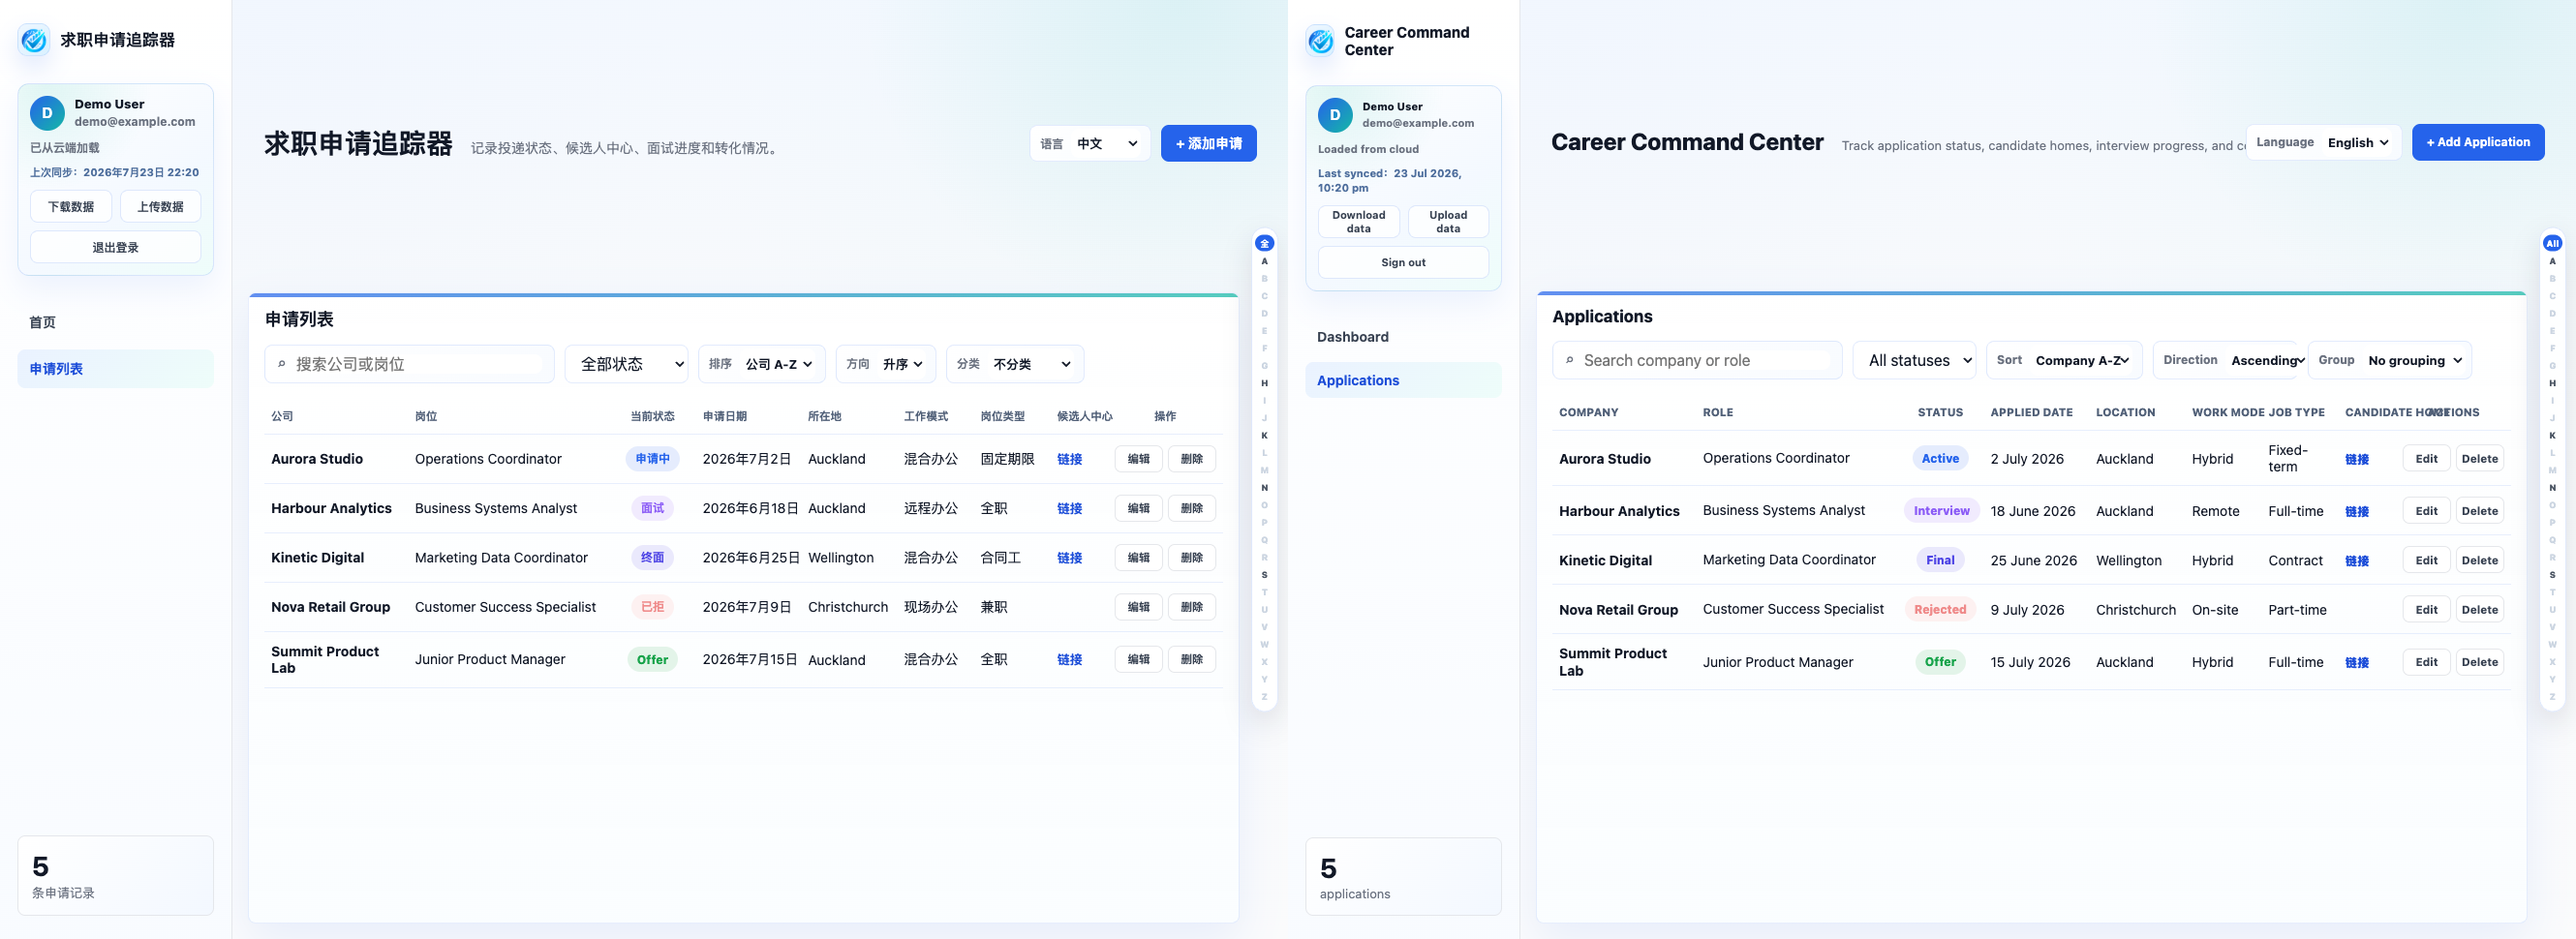
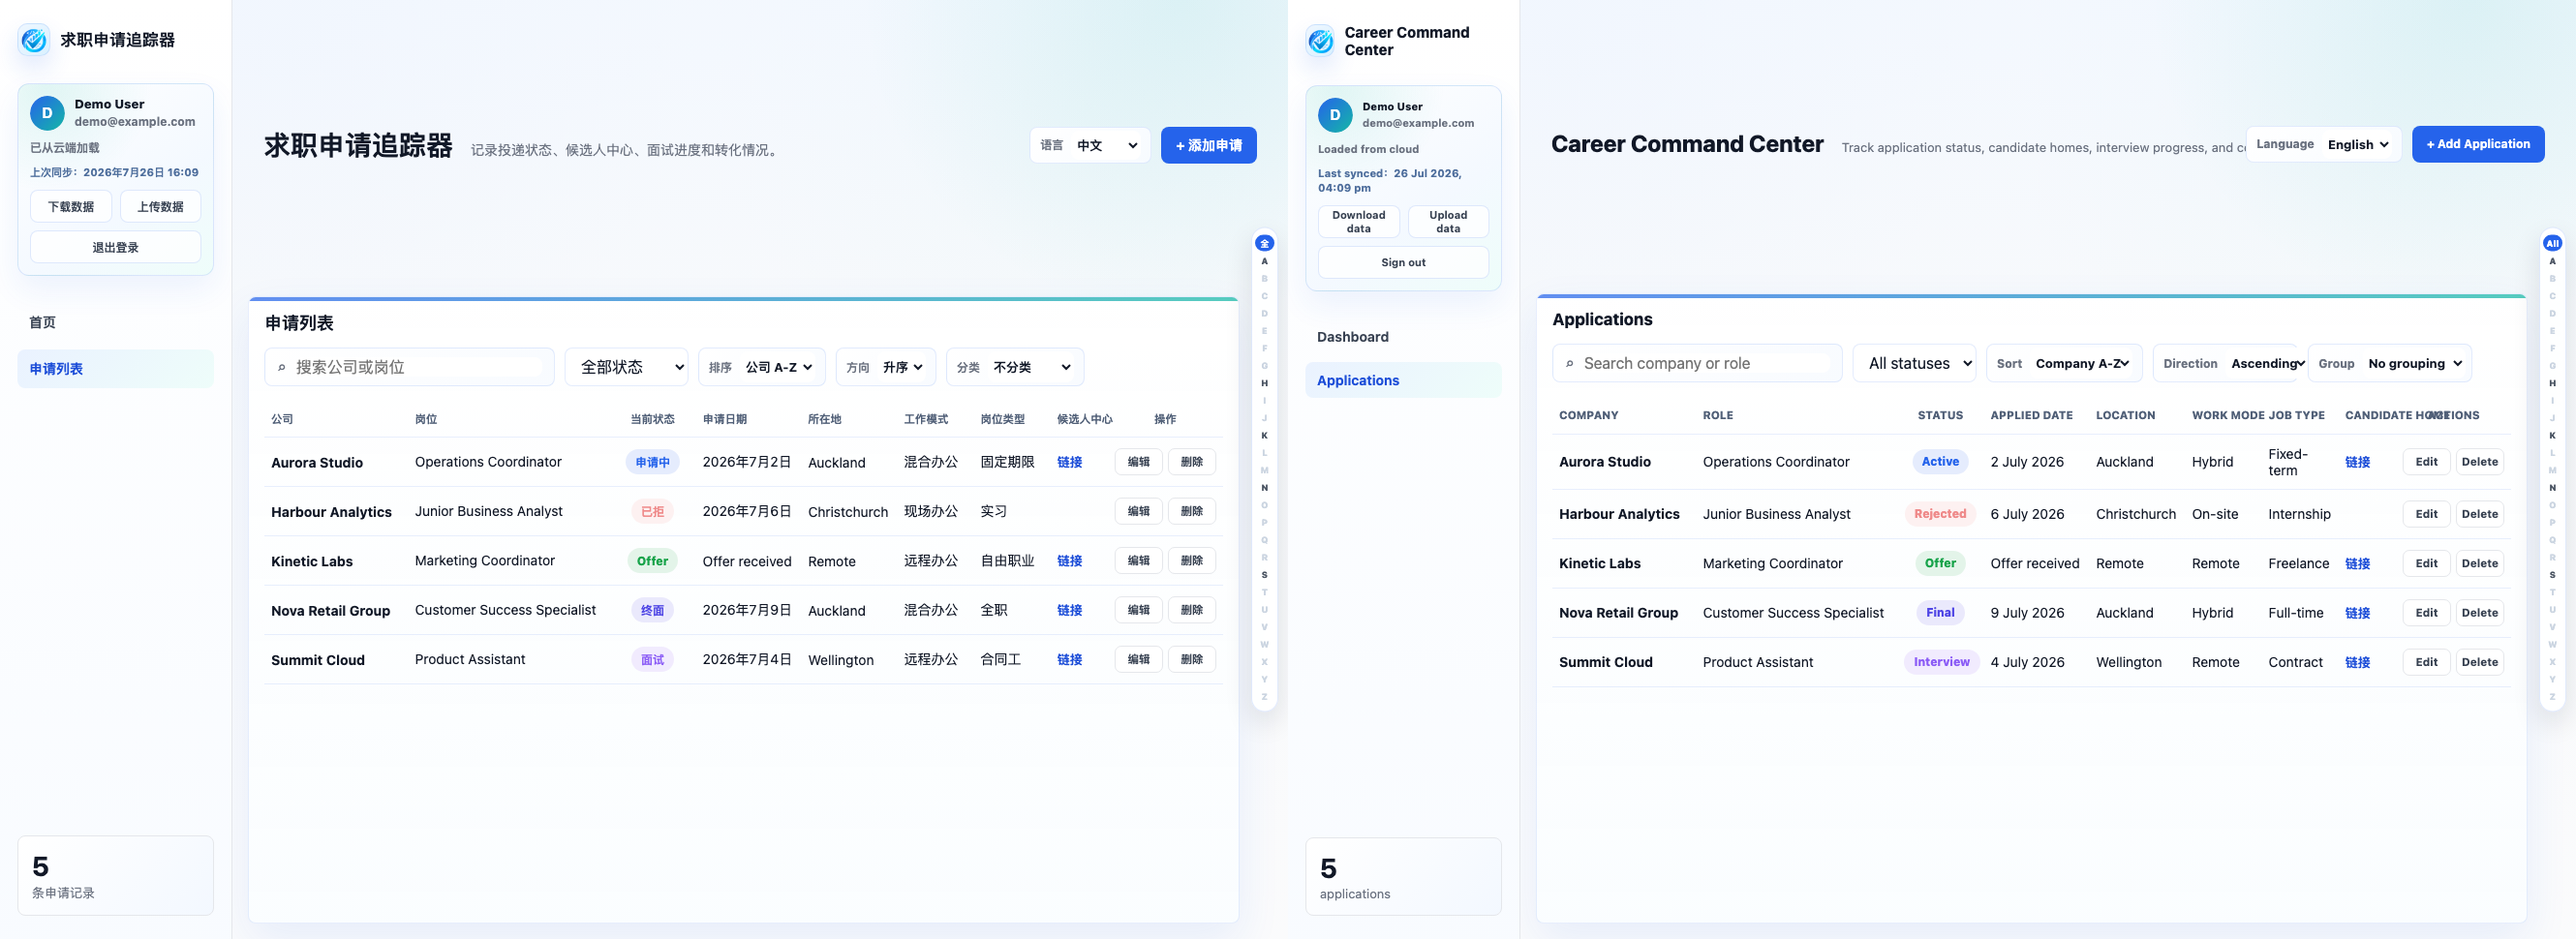
Update demo README screenshots

diff --git a/README.md b/README.md
@@ -108,7 +108,7 @@ The login screen provides bilingual controls and simulated access to the demonst
 
 ### Dashboard
 
-The dashboard summarises application volume, stages, outcomes and recent activity.
+The dashboard summarises application volume, stages, outcomes and conversion rates.
 
 ![Career Command Center bilingual dashboard preview](docs/images/career-command-demo-dashboard-zh-en.png)
 
